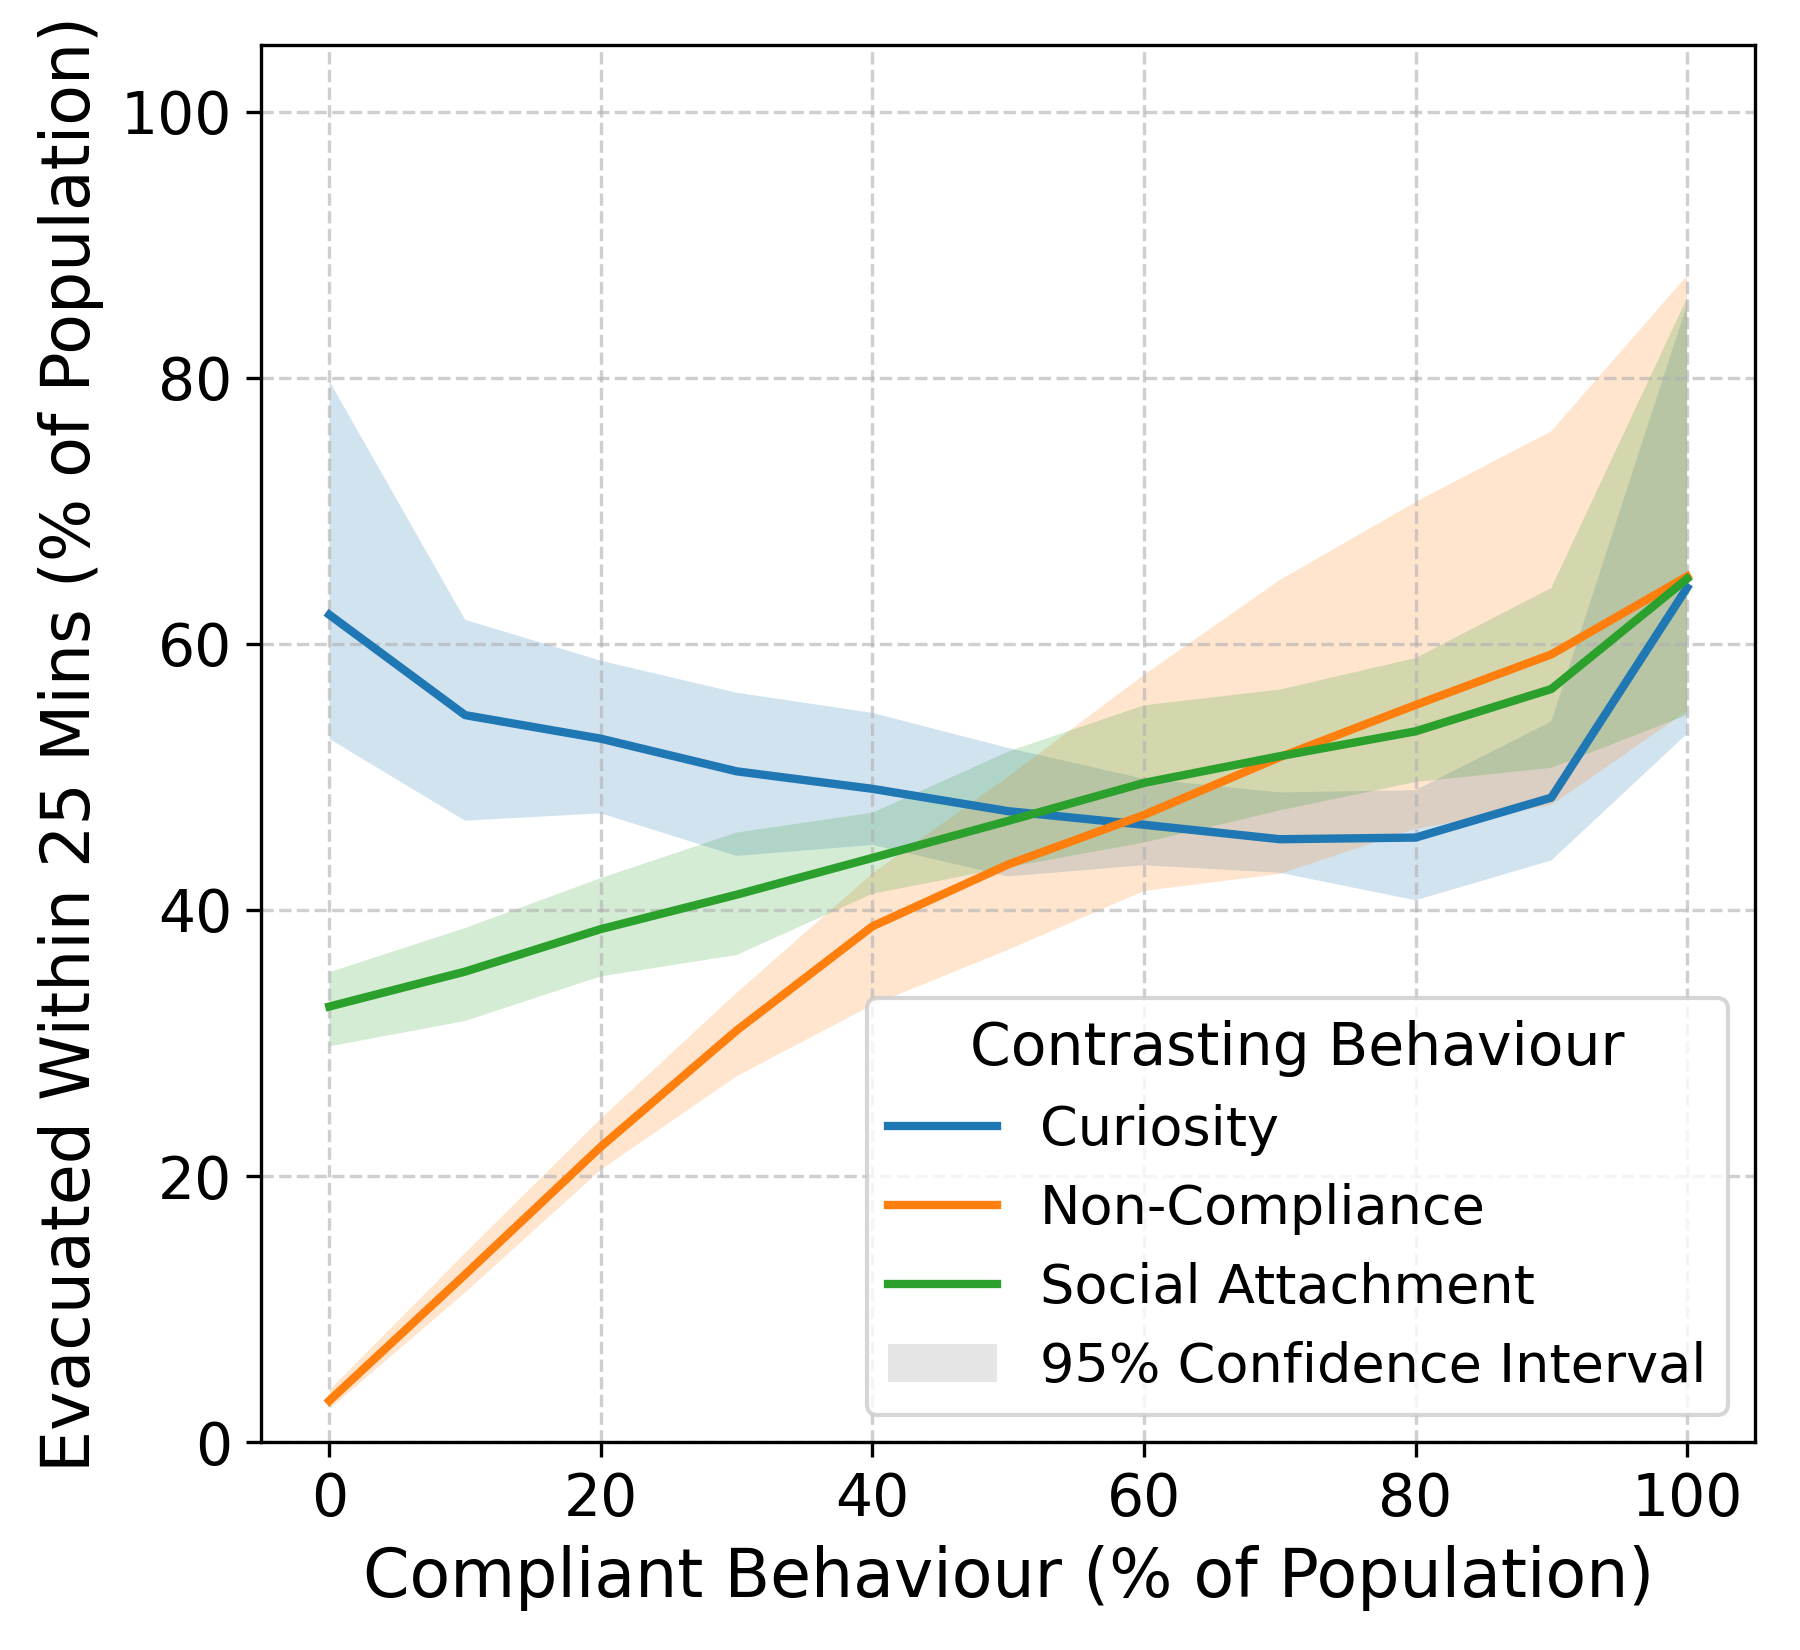
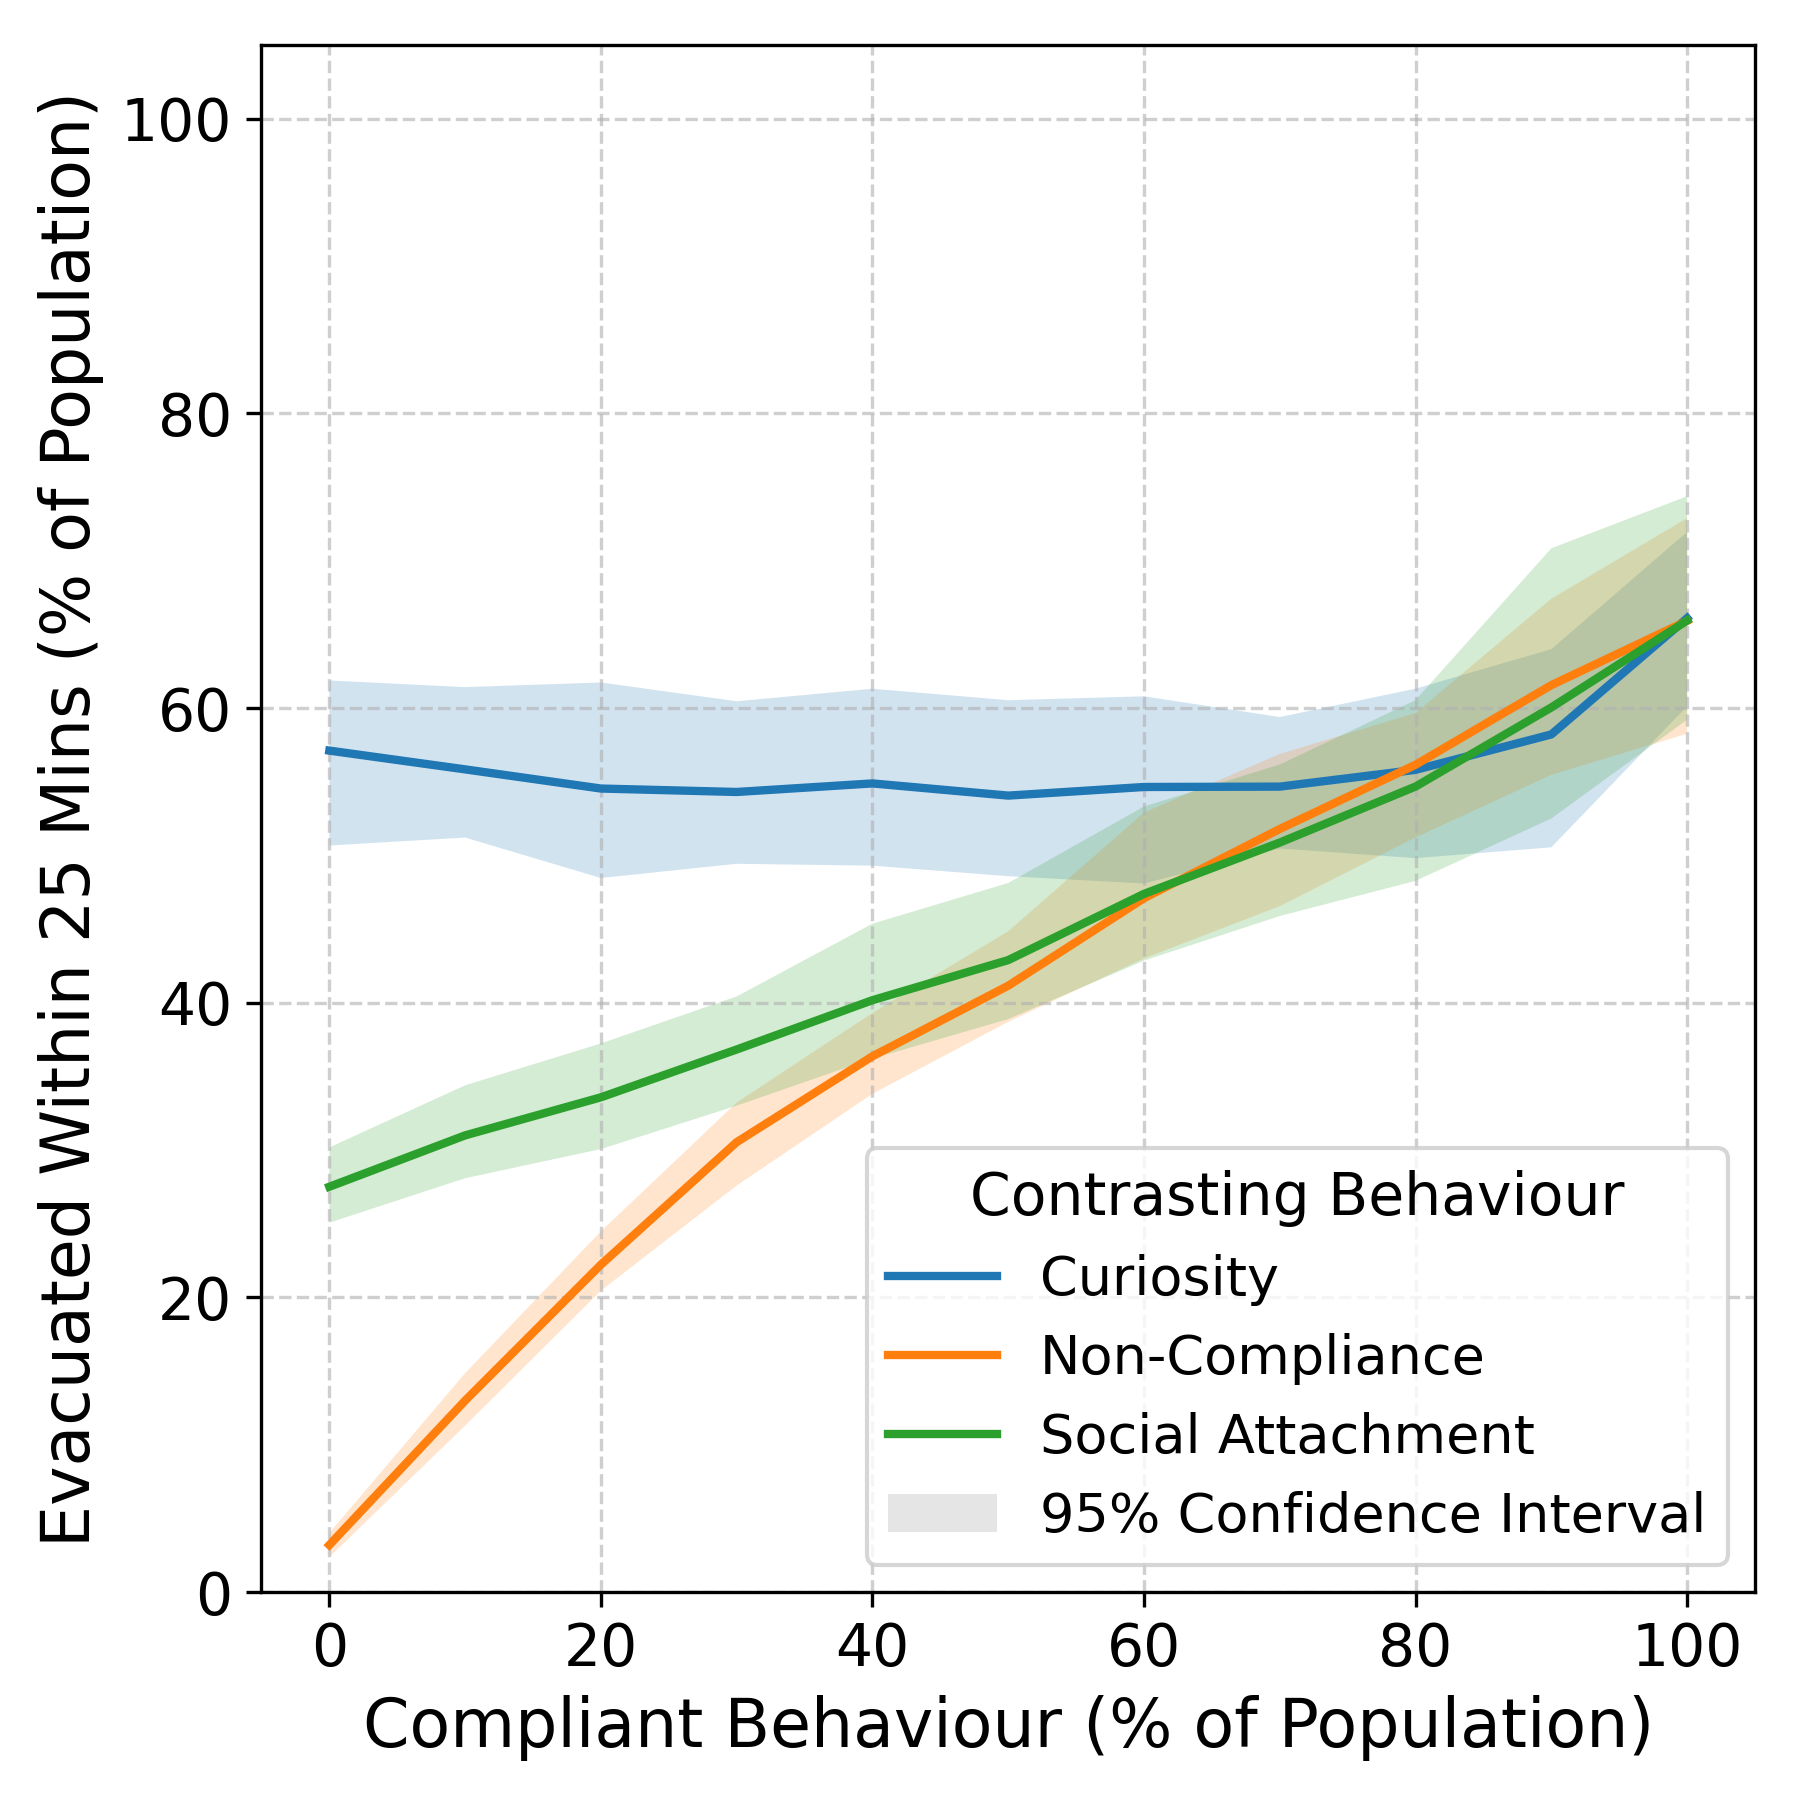
sensitivity analysis

diff --git a/scripts/batch_run.py b/scripts/batch_run.py
@@ -15,9 +15,14 @@ if __name__ == "__main__":
     current_time = datetime.fromtimestamp(time.time()).strftime("%Y%m%d%H%M%S")
     batch_output_path = f"outputs/batch-{current_time}"
 
+    def _get_bomb_location(city: str) -> Point:
+        monument = Point(424860, 564443)
+        st_james = Point(424192, 564602)
+        return st_james if city == "football" else monument
+
     # fixed parameters
     num_agents = 4000
-    bomb_location = Point(424388, 564639)
+    bomb_location = _get_bomb_location(data_file_prefix)
     evacuation_start_h = 15
     evacuation_start_m = 30
     simulation_start_h = 15
@@ -25,24 +30,17 @@ if __name__ == "__main__":
     mean_evacuation_delay_m = 5
     car_use_pc = 0
     evacuation_zone_radius = 500
-    # agent_behaviour = {
-    #    Behaviour.NON_COMPLIANT: 0,
-    #    Behaviour.COMPLIANT: 1,
-    #    Behaviour.CURIOUS: 0,
-    #    Behaviour.FAMILIAR: 0,
-    # }
+    # curiosity_radius_m = 200
+    agent_behaviour = {
+        Behaviour.NON_COMPLIANT: 0,
+        Behaviour.COMPLIANT: 0,
+        Behaviour.CURIOUS: 1,
+        Behaviour.FAMILIAR: 0,
+    }
 
     # variable parameter
-    variable_name = "agent_behaviour"
-    variable_values = [
-        {
-            Behaviour.NON_COMPLIANT: round(x / 10.0, 1),
-            Behaviour.COMPLIANT: round(1 - x / 10.0, 1),
-            Behaviour.CURIOUS: 0,
-            Behaviour.FAMILIAR: 0,
-        }
-        for x in range(0, 11)
-    ]
+    variable_name = "curiosity_radius_m"
+    variable_values = [ 50, 100, 150, 200, 250, 300, 350, 400, 450, 500 ]
 
     if not os.path.exists(batch_output_path):
         os.makedirs(batch_output_path)
@@ -68,6 +66,7 @@ if __name__ == "__main__":
                 "percent_compliant",
                 "percent_curious",
                 "percent_familiar",
+                "curiosity_radius_m"
             ]
         )
 
@@ -95,8 +94,9 @@ if __name__ == "__main__":
             car_use_pc=car_use_pc,
             evacuate_on_foot=True,
             sensor_locations=[],
-            agent_behaviour=variable_value,
-        ).run(210)
+            agent_behaviour=agent_behaviour,
+            curiosity_radius_m = variable_value
+        ).run(150)
 
         end_time = time.time()
 
@@ -119,10 +119,11 @@ if __name__ == "__main__":
                     output_path,
                     mean_evacuation_delay_m,
                     car_use_pc,
-                    variable_value[Behaviour.NON_COMPLIANT],
-                    variable_value[Behaviour.COMPLIANT],
-                    variable_value[Behaviour.CURIOUS],
-                    variable_value[Behaviour.FAMILIAR],
+                    agent_behaviour[Behaviour.NON_COMPLIANT],
+                    agent_behaviour[Behaviour.COMPLIANT],
+                    agent_behaviour[Behaviour.CURIOUS],
+                    agent_behaviour[Behaviour.FAMILIAR],
+                    variable_value
                 ]
             )
 

diff --git a/scripts/create_occupancy_map.py b/scripts/create_occupancy_map.py
@@ -19,9 +19,9 @@ scenarios = {
         "gml_file": "outputs/newcastle-md/20250412234447/20250412234447.gml"
     },
     "St James' Park": {
-        "agent_file": "outputs/batch-20250411234245/agent_behaviour-{<Behaviour.NON_COMPLIANT: 2>: 0, <Behaviour.COMPLIANT: 1>: 1.0, <Behaviour.CURIOUS: 3>: 0.0, <Behaviour.FAMILIAR: 4>: 0}-run-49/agent_behaviour-{<Behaviour.NON_COMPLIANT: 2>: 0, <Behaviour.COMPLIANT: 1>: 1.0, <Behaviour.CURIOUS: 3>: 0.0, <Behaviour.FAMILIAR: 4>: 0}-run-49.agent.csv",
-        "gpkg_file": "outputs/batch-20250411234245/agent_behaviour-{<Behaviour.NON_COMPLIANT: 2>: 0, <Behaviour.COMPLIANT: 1>: 1.0, <Behaviour.CURIOUS: 3>: 0.0, <Behaviour.FAMILIAR: 4>: 0}-run-49/agent_behaviour-{<Behaviour.NON_COMPLIANT: 2>: 0, <Behaviour.COMPLIANT: 1>: 1.0, <Behaviour.CURIOUS: 3>: 0.0, <Behaviour.FAMILIAR: 4>: 0}-run-49.gpkg",
-        "gml_file": "outputs/batch-20250411234245/agent_behaviour-{<Behaviour.NON_COMPLIANT: 2>: 0, <Behaviour.COMPLIANT: 1>: 1.0, <Behaviour.CURIOUS: 3>: 0.0, <Behaviour.FAMILIAR: 4>: 0}-run-49/agent_behaviour-{<Behaviour.NON_COMPLIANT: 2>: 0, <Behaviour.COMPLIANT: 1>: 1.0, <Behaviour.CURIOUS: 3>: 0.0, <Behaviour.FAMILIAR: 4>: 0}-run-49.gml"
+        "agent_file": "outputs/batch-20250617210608/mean_evacuation_delay_m-5-run-0/mean_evacuation_delay_m-5-run-0.agent.csv",
+        "gpkg_file": "outputs/batch-20250617210608/mean_evacuation_delay_m-5-run-0/mean_evacuation_delay_m-5-run-0.gpkg",
+        "gml_file": "outputs/batch-20250617210608/mean_evacuation_delay_m-5-run-0/mean_evacuation_delay_m-5-run-0.gml"
     }
 }
 time_steps = [0, 48, 96]  # e.g. 0 and 800s if 10s timestep

diff --git a/scripts/sensitivity_analysis.py b/scripts/sensitivity_analysis.py
@@ -1,0 +1,46 @@
+import pandas as pd
+import os
+import matplotlib.pyplot as plt
+import numpy as np
+from scipy.stats import sem
+from textwrap import wrap
+
+meta = pd.read_csv("outputs/batch-20250619091336/metadata.csv")
+results = []
+
+variable = 'mean_evacuation_delay_m'
+x_label = 'Rayleigh delay parameter (min)'
+
+for _, row in meta.iterrows():
+    model_path = os.path.join(row.output_path, os.path.basename(row.output_path) + ".model.csv")
+    if os.path.exists(model_path):
+        df = pd.read_csv(model_path)
+        final = df.iloc[-1]
+        evacuated = final['number_evacuated']
+        to_evacuate = final['number_to_evacuate']
+        percent_evacuated = 100 * evacuated / to_evacuate if to_evacuate > 0 else 0
+
+        results.append({
+            'variable_value': row[variable],  
+            'percent_evacuated': percent_evacuated
+        })
+
+# Create DataFrame from results
+result_df = pd.DataFrame(results)
+
+# Group by sigma and calculate mean and 95% CI
+grouped = result_df.groupby('variable_value')['percent_evacuated']
+summary = grouped.agg(['mean', 'count', 'std'])
+summary['sem'] = grouped.apply(sem)
+summary['ci95'] = 1.96 * summary['sem']  # 95% confidence interval
+
+# Plot mean with error bars
+plt.figure(figsize=(6, 4))
+plt.errorbar(summary.index, summary['mean'], yerr=summary['ci95'], fmt='o-', capsize=5)
+plt.xlabel(x_label, fontsize=16)
+plt.ylabel('\n'.join(wrap("Evacuated within 25 mins (% of Population)", 25)), fontsize=16)
+plt.xticks(fontsize=14)
+plt.yticks(fontsize=14)
+plt.grid(True)
+plt.tight_layout()
+plt.show()

diff --git a/src/model/model.py b/src/model/model.py
@@ -78,6 +78,7 @@ class EvacuationModel(mesa.Model):
         evacuate_on_foot: bool = True,
         sensor_locations: list[Point] = [],
         agent_behaviour: dict[Behaviour, float] | None = None,
+        curiosity_radius_m: int = 200
     ) -> None:
         super().__init__()
         self.city = city
@@ -102,7 +103,7 @@ class EvacuationModel(mesa.Model):
             date_today, time(hour=evacuation_start_h, minute=evacuation_start_m)
         )
 
-        self._create_evacuees(mean_evacuation_delay_m, car_use_pc, evacuate_on_foot)
+        self._create_evacuees(mean_evacuation_delay_m, car_use_pc, evacuate_on_foot, curiosity_radius_m)
         self.datacollector = mesa.DataCollector(
             model_reporters={
                 "evacuation_started": get_is_evacuation_started,
@@ -243,7 +244,7 @@ class EvacuationModel(mesa.Model):
             )
 
     def _create_evacuees(
-        self, mean_evacuation_delay_m: int, car_use_pc: int, evacuate_on_foot: bool
+        self, mean_evacuation_delay_m: int, car_use_pc: int, evacuate_on_foot: bool, curiosity_radius_m: int
     ) -> None:
         for _ in range(self.num_agents):
             random_home = self.space.get_random_home()
@@ -267,6 +268,7 @@ class EvacuationModel(mesa.Model):
                     list(self.agent_behaviour.keys()),
                     list(self.agent_behaviour.values()),
                 )[0],
+                curiosity_radius_m=curiosity_radius_m
             )
 
             self.space.add_evacuee(evacuee)

diff --git a/scripts/create_summary_plot.py b/scripts/create_summary_plot.py
@@ -5,9 +5,9 @@ import os
 
 # === CONFIG: Metadata paths per behaviour type ===
 metadata_files = {
-    "Curiosity": "outputs/batch-20250411234245/metadata.csv",
-    "Social Attachment": "outputs/batch-20250411160316/metadata.csv",
-    "Non-Compliance": "outputs/batch-20250412233224/metadata.csv",
+    "Curiosity": "outputs/batch-20250617235523/metadata.csv",
+    "Social Attachment": "outputs/batch-20250618121242/metadata.csv",
+    "Non-Compliance": "outputs/batch-20250618194302/metadata.csv",
 }
 
 def get_summary_stats(metadata_path):
@@ -25,12 +25,11 @@ def get_summary_stats(metadata_path):
 
             prop_compliant = row.percent_compliant
 
-            add = 3 if metadata_path == metadata_files["Social Attachment"] else 0
 
             if prop_compliant is not None and num_required > 0:
                 summary.append({
                     "prop_compliant": float(prop_compliant) * 100,  # convert to percentage
-                    "evacuation_rate": 100 * num_evacuated / num_required + add,  # also percentage
+                    "evacuation_rate": 100 * num_evacuated / num_required
                 })
         except Exception as e:
             print(f"Skipping {model_file}: {e}")

diff --git a/src/agent/evacuee.py b/src/agent/evacuee.py
@@ -70,6 +70,8 @@ class Evacuee(mg.GeoAgent):
     diverted = False
     status = ""
 
+    curiosity_radius_m = 200
+
     previous_osmid = None
     behaviour: Behaviour | None = None
 
@@ -86,6 +88,7 @@ class Evacuee(mg.GeoAgent):
         car_use_pc,
         evacuate_on_foot,
         behaviour,
+        curiosity_radius_m
     ) -> None:
         self.model = model
         self.home = home
@@ -95,6 +98,7 @@ class Evacuee(mg.GeoAgent):
         self.walking_speed = self.model.agent_data.iloc[category].walking_speed
         self.in_car = random.choices([True, False], [car_use_pc, 100 - car_use_pc])[0]
         self.behaviour = behaviour
+        self.curiosity_radius_m = curiosity_radius_m
         self._set_schedule()
         geometry = self._initialise_position()
 
@@ -117,7 +121,7 @@ class Evacuee(mg.GeoAgent):
             self.behaviour is Behaviour.CURIOUS
             and self.model.evacuating
             and not self.in_car
-            and self.model.space.evacuation_zone.centre.buffer(200).contains(
+            and self.model.space.evacuation_zone.centre.buffer(self.curiosity_radius_m).contains(
                 Point(self.geometry.x, self.geometry.y)
             )
         ):

diff --git a/scripts/compute_exit_stats.py b/scripts/compute_exit_stats.py
@@ -8,9 +8,9 @@ import networkx as nx
 import osmnx as ox
 
 # ---------------- CONFIGURATION ---------------- #
-agent_file = "outputs/newcastle-md/20250412234447/20250412234447.agent.csv"
-gpkg_file = "outputs/newcastle-md/20250412234447/20250412234447.gpkg"
-gml_file = "outputs/newcastle-md/20250412234447/20250412234447.gml"
+agent_file = "outputs/batch-20250617210608/mean_evacuation_delay_m-5-run-0/mean_evacuation_delay_m-5-run-0.agent.csv"
+gpkg_file = "outputs/batch-20250617210608/mean_evacuation_delay_m-5-run-0/mean_evacuation_delay_m-5-run-0.gpkg"
+gml_file = "outputs/batch-20250617210608/mean_evacuation_delay_m-5-run-0/mean_evacuation_delay_m-5-run-0.gml"
 
 crs_epsg = "EPSG:27700"
 # ------------------------------------------------ #

diff --git a/scripts/compute_mean_time_to_90_pc.py b/scripts/compute_mean_time_to_90_pc.py
@@ -2,7 +2,7 @@ import pandas as pd
 import os
 
 # ---------------- CONFIGURATION ---------------- #
-BATCH_PATH = "outputs/batch-20250411234245"
+BATCH_PATH = "outputs/batch-20250618194302"
 METADATA_FILE = os.path.join(BATCH_PATH, "metadata.csv")
 CITY_FILTER = "football"
 # ------------------------------------------------ #
@@ -13,6 +13,8 @@ df = metadata[
     (metadata["city"] == CITY_FILTER) &
     (metadata["percent_compliant"] == 1.0)
 ]
+
+print(df)
 
 # Function to compute time to reach X% evacuated
 def time_to_threshold(filepath, threshold=0.90):
